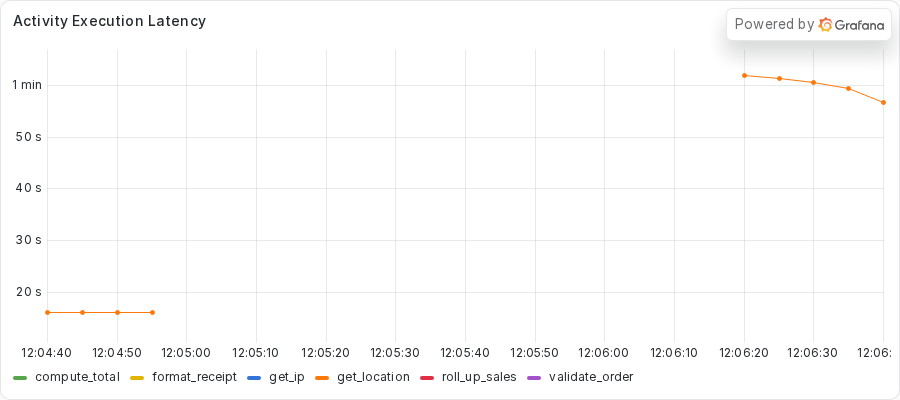
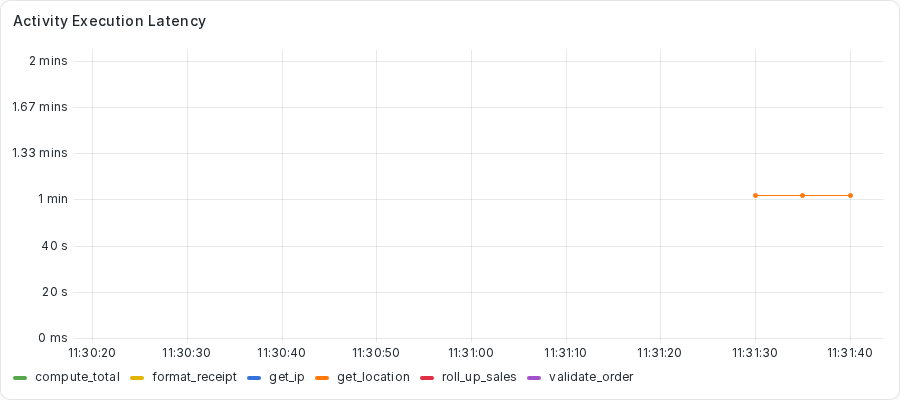
Retake the exercise 02 solution panel captures
The old exercise 02 solution images came from a window that did not
start at the fleet start, and the failures image carried a flat line
left over from the practice run. All four 02-solution-live images are
retaken with a window that starts at the fleet start.

The exercise 02 README (alt text at line 683, sentence at line 686) and
the part 3 draft (alt text at line 721) now disagree with the new
workflow-task-latency image, which reads 4 to 18 ms and has no points
near 7.8 seconds. They stay as they are until the prose steps rewrite
them. The new failures image reads "No data" because a clean run has no
activity_timeout series; no Markdown file embeds it.

Other readings taken in this step, each from one run, with raw captures
kept outside the repository:

- Exercise 03 solution, one Worker, --bad 2: both runs about 84.4 s,
  get_location placed 2 on the one identity.
- Exercise 03 solution, two Workers, --bad 4: run times 84.4 to 87.0 s,
  placement 2 and 2.
- py-spy retakes: the last frame reads worker.py:166 and :168, where
  the README prints 115 and 117.
- Root just healthy: 0 "Task not found when completing" lines. Root
  just block: 3, one at the first thaw and two at the final thaw.
- Root just block receipt WT1: 29,002 and 29,001 ms.
- Workflow Task Execution Latency panel: the 5.14 s peak is the
  rollup line; the receipts' 29 s stall does not appear, because a
  timed-out Workflow Task records no execution latency.
- kernel.yama.ptrace_scope reads 0.

diff --git a/.ai-sessions/session-20261111-1140-goal-step-8-reference-captures.md b/.ai-sessions/session-20261111-1140-goal-step-8-reference-captures.md
@@ -1,0 +1,122 @@
+# Session Summary: Goal Step 8, Capture Exercise 03 And The Root Reference Readings
+
+**Date**: 2026-11-11
+**Duration**: one goal step (implement, finalize); active time not tracked
+**Conversation Turns**: one implement dispatch before this finalize dispatch
+**Estimated Cost**: not tracked
+**Model**: claude-sonnet-5-5 (the implement and finalize dispatches both ran on Sonnet, under a claude-fable-5-2 orchestrator)
+
+## Goal Context
+
+- **Condition**: not visible to the finalize dispatch
+- **Mode**: step (Step 8 of the fleet-localization plan, a task step with `**Tools:** none`)
+- **Outcome**: converged for this step (no validator pass, so no findings)
+- **Subagent dispatches**: implement, finalize
+- **Steps completed**: Step 8 checked off in `todo.md`
+
+## Key Actions
+
+Each figure below is one run, not a general result.
+The raw captures, logs, and per-run readings stay in the scratchpad, outside the repository.
+
+- Exercise 03, solution copy, one Worker, `--bad 2`: both runs took about 84.4 s (84.47 and 84.43 s), both completed on attempt 1.
+  `get_location` placed 2 on the one identity.
+  `top` read 81.8, 63.6, and 41.7 percent CPU at 10, 18, and 28 s.
+- Exercise 03, solution copy, two Workers, `--bad 4`: four run times of 84.41, 84.43, 86.97, and 86.38 s.
+  Placement was 2 and 2 for `get_location` (and for `get_ip`).
+  `top` read 80.0 to 100.0 percent on both Workers.
+- Retook two `py-spy dump` captures, one on the practice copy (the bug) and one on the solution copy standing in for the fixed practice copy.
+  Only the last frame differs from the README: `worker.py:166` and `worker.py:168` against 115 and 117.
+- Root `just healthy` only: 0 "Task not found when completing" lines in the Worker log.
+- Root `just block`: 3 such lines.
+  The rollup failed `ScheduleToClose`, its Activity timing out 20.0 s after it was scheduled.
+  Receipt WT1 read 29,002 ms and 29,001 ms.
+  `top` read 0.0 percent in state `S`.
+- Workflow Task Execution Latency panel for the root `just block` run: the peak (5141.3 ms) is on the SalesRollupWorkflow line.
+  The receipt line has no finite value in the window.
+- `sysctl kernel.yama.ptrace_scope` reads 0.
+- Exercise 02 solution fleet: retook and replaced all four `docs/images/02-solution-live-*.png` with a window that starts at the fleet start.
+  Receipts read WT1 20 ms and 17 ms, and `validate_order` waits of 3227 ms and 3196 ms.
+- Checked off the Step 8 boxes in `todo.md`.
+- This finalize dispatch re-ran `just check` (exit 0) and `uv run pytest -q` at the root (119 passed, exit 0).
+
+## Prompt Inventory
+
+| Prompt/Command | Action Taken | Outcome |
+|---|---|---|
+| Executor (Sonnet), `Mode: implement` | Ran the exercise 03 readings, two py-spy retakes, the root readings, and the exercise 02 fleet; replaced four images | Tree dirty with `todo.md` and four PNG files |
+| Executor (Sonnet), `Mode: finalize` | Gates, session summary, three lessons, commit, push | This commit |
+
+## Deviations from Plan
+
+- Plan said: start the dev server with `just server`.
+- Deviated: started `temporal server start-dev --metrics-port 9465` directly in the background so the recorded PID is the server's own (the same command the recipe runs).
+- Impact: none on the captures.
+
+- Plan said: the plan lists the exercise 03 one-Worker and two-Worker readings and the root and exercise 02 readings only.
+- Deviated: added by the orchestrator, two `py-spy dump` retakes (practice copy with the bug, and the solution copy standing in for the fixed practice copy) to check the `worker.py` frame lines the exercise 03 README prints.
+  Only the last frame differs (115 became 166, 117 became 168).
+- Impact: Step 11 corrects the README from the scratchpad files.
+
+- Plan said: run the exercise 03 one-Worker reading once.
+- Deviated: the first attempt's analysis script failed after the run, so the reading was repeated on a fresh server; the first attempt's files are kept in the scratchpad under their own name.
+- Impact: none on the figures quoted.
+
+- Plan said: retake the four 02-solution-live images and replace them, with a window that starts at the fleet start.
+- Deviated: replaced all four.
+  The failures image now reads "No data", and the latency image now reads 4 to 18 ms with no points near 7.8 seconds, so the alt text and the sentence beside it in the exercise 02 README (and the part 3 draft) no longer match.
+- Impact: Step 11 or 13 must rewrite that caption; recorded in the scratchpad findings.
+
+## Efficiency Insights
+
+**What went well:**
+- The py-spy retake caught a stale frame line in the README that no earlier step had checked.
+- Keeping the aborted analysis run's files under their own name left no ambiguity about which run the figures come from.
+
+**What could improve:**
+- The machine had a load average of 1.9 to 4.2 and an unrelated dev server running during every run, which may explain part of the slower exercise 03 run times; this was not tested.
+- The image replacement landed before the prose that captions it, so the repository holds false captions until Steps 11 and 13.
+
+**Course corrections:**
+- The orchestrator added the two py-spy retakes mid-step; the analysis script was fixed and the one-Worker reading repeated.
+
+## Process Improvements
+
+- When a capture step replaces an image, grep the Markdown files for its filename first and list every caption line in the commit body.
+- Note the machine's load next to each timing figure, as the run times here are slower than the earlier ones.
+
+## Observations
+
+Every reading here is one run.
+Nothing in spec.md, CLAUDE.md, any README, or any draft was changed in this step.
+The writers of Steps 9, 11, 13, and 14 must write from the scratchpad captures and treat these disagreements as open.
+
+- Exercise 03 solution, one Worker, `--bad 2`: both runs took about 84.4 s, against "about 63 seconds" at `exercises/03-cpu-bound/README.md` line 491 and 59 to 60 s at `spec.md` line 324.
+  `top` read 81.8, 63.6, and 41.7 percent, against 93.0 percent at README lines 470 and 489 and 60 to 100 percent at `spec.md` line 324 (41.7 is below that range).
+  `get_location` placement count was 2 on the one identity.
+- Exercise 03 solution, two Workers, `--bad 4`: four run times of about 84.4 to 87.0 s, against 65 to 67 s at `spec.md` line 325.
+  Placement was 2 and 2.
+  The README still describes `--bad 3` at lines 496 to 538, which this run did not retake; Step 11 rewrites it.
+- The py-spy retakes: the README prints `<module> (worker.py:115)` at line 197 and `<module> (worker.py:117)` at line 366; this run reads `worker.py:166` and `worker.py:168`.
+  Every other frame matches.
+  The fixed practice copy's `asyncio.run(main())` line depends on what the learner wrote, so Step 11 should say so or quote the solution copy's 168.
+- Root `just healthy` only: 0 "Task not found when completing" lines.
+  Root `just block`: 3 such lines, one for the rollup's Workflow Task at the first thaw and two for the receipts just before the final thaw (about 0.04 s before the final `get_location` completion).
+  That differs from "together at the thaw" at `spec.md` lines 396 and 606.
+- Root `just block`: receipt WT1 of 29,002 ms and 29,001 ms, against 28.8 s in `CLAUDE.md` and 28,816 and 28,834 ms at `README.md` line 542.
+  The rollup's Activity timed out 20.0 s after it was scheduled, which matches `CLAUDE.md`.
+- Workflow Task Execution Latency panel: the peak (5141.3 ms) is on the SalesRollupWorkflow line, and the receipts' 29-second stall does not appear because their first Workflow Task timed out and recorded no execution latency.
+  `README.md` line 711 ("a stall of about 29 seconds reads as 5 to 6 seconds") and the matching `CLAUDE.md` dashboard fact are not supported by this run; Step 14 corrects both.
+- `sysctl kernel.yama.ptrace_scope` reads 0, matching `README.md` line 723 and `spec.md` line 71.
+- Exercise 02: all four `docs/images/02-solution-live-*.png` were replaced with a window that starts at the fleet start.
+  The new workflow-task-latency image reads 4 to 18 ms (rollup 18, receipts about 9, geo 4), so the alt text at `exercises/02-sleep-between-heartbeats/README.md` line 683, the sentence at line 686, and the alt text at `docs/drafts/part-3-sleep-between-heartbeats.md` line 721 are now false until Steps 11 and 13 rewrite them.
+  The new failures image reads "No data".
+  No committed Markdown file embeds the failures, activity-latency, or slots-used image (only the workflow-task-latency image is embedded), and the old failures image showed a stale flat line left over from the practice run.
+  Committing a "No data" image follows the plan's "replace the four files" instruction; whether to keep or delete that file is a build decision for Step 14.
+  This run's receipts read WT1 20 ms and 17 ms and `validate_order` waits of 3227 ms and 3196 ms, against the README's printed 14 and 16 ms and 2954 and 4013 ms (lines 671 to 678).
+
+## Suggested Skills for Next Session
+
+- `content-design:tutorial-writing`: Step 9 is prose (README.md and the event-loop primer).
+- `voice:teaching`: Mason's register on top of the tutorial canon for that prose.
+- `content-design:style-linting`: the prose goes through Vale before it is committed.

diff --git a/.ai-sessions/lessons.md b/.ai-sessions/lessons.md
@@ -2,6 +2,9 @@
 
 ## Recent
 
+- A Workflow Task that times out records no execution latency, so the Workflow Task Execution Latency panel cannot show a stall that a timeout carries: in one root `just block` run the receipts' 29-second first-task stall left their line empty, and the panel's only high reading (5.14 s) sat on the rollup line (one run, 2026-11-11)
+- Replacing a panel image ahead of the prose that captions it makes the alt text and the sentence beside it false; in the same commit, record the file and line of every caption the new image contradicts (exercise 02 README lines 683 and 686, part 3 draft line 721) so the prose steps find them (2026-11-11)
+- A `py-spy` frame line printed in a README goes stale whenever the file it names changes: the exercise 03 README's `worker.py:115` and `worker.py:117` read 166 and 168 in a retake, while every other frame matched; retake the dump after code edits to that file (one run, 2026-11-11)
 - An `ActivityTaskStarted` history event is written only when the Activity finishes, so a mid-freeze reading triggered on it falls after the thaw (two of four exercise 06 flood B runs); trigger on the starter's own output or on the pending Activity state from `describe` (2026-11-11)
 - A flood B run read a backlog of 39 tasks aged 3.5 s and a frozen Worker's pollers 6 and 8 seconds stale only at the last of four mid-freeze passes (about 19 s in); the passes at about 0 and 2 s read backlog 0 and current pollers, so one early read does not show the signal is absent; take passes across the whole freeze and name the pass in the sentence (one run, 2026-11-11)
 - A Grafana panel that reads "No data" in a clean run (the solution failures panel, because no `activity_timeout` series exists) is not committed as an image; the prose states the empty panel instead (2026-11-11)
@@ -9,9 +12,6 @@
 - When a plan step names one copy of an exercise file and the practice or solution twin holds identical lines, apply a no-behavior change to both and log it as a deviation, so `diff practice solution` keeps showing only lesson lines (Step 6, exercise 03 `worker.py`) (2026-11-11)
 - A docstring that describes an output format is a claim a validator checks against the code line by line: two of Step 5's three validator passes failed on a docstring that said less or more than the code printed; write the docstring from the formatter's branches after the code is final (2026-11-11)
 - A history fixture attributes a WorkflowTaskTimedOut through the scheduled event id it shares with a WorkflowTaskStarted, because the timeout event carries no identity; a timeout with no Started event belongs to no identity (2026-11-11)
-- A fallback branch that no captured fixture reaches (`largest WT1 none`, `on no Worker` in the receipt-gap identity view) needs a history derived from a capture inside the test, with "derived" in the test name, and a temporary mutation of the branch to show the test can fail (2026-11-11)
-- Before an orchestrator gives an executor a formatting rule, check the house convention in the existing files: the Step 4 executor was told never to split the ANTIPATTERN marker, kept one 264-character line behind a file-level `# ruff: noqa: E501`, and had to be sent back, because every other marker in the repository wraps over several comment lines; grep the existing instances first (2026-11-11)
-- When a practice copy's fix changes the kind of a function (`async def` to `def`), every line that changes with it is an edit point and needs its own `# TODO PART X:` comment: exercise 06's `async with httpx.AsyncClient` line and its `await client.get` call had none until the validator compared the copy with exercise 03, whose fix has the same shape; diff the TODO comments against that sibling before validation (2026-11-11)
 
 ## Testing
 
@@ -32,6 +32,7 @@
 
 ## Temporal
 
+- A Workflow Task that times out records no execution latency, so the Workflow Task Execution Latency panel cannot show a stall that a timeout carries: in one root `just block` run the receipts' 29-second first-task stall left their line empty, and the panel's only high reading (5.14 s) sat on the rollup line (one run, 2026-11-11)
 - A flood B run read a backlog of 39 tasks aged 3.5 s and a frozen Worker's pollers 6 and 8 seconds stale only at the last of four mid-freeze passes (about 19 s in); the passes at about 0 and 2 s read backlog 0 and current pollers, so one early read does not show the signal is absent; take passes across the whole freeze and name the pass in the sentence (one run, 2026-11-11)
 - An `ActivityTaskStarted` history event is written only when the Activity finishes, so a mid-freeze reading triggered on it falls after the thaw (two of four exercise 06 flood B runs); trigger on the starter's own output or on the pending Activity state from `describe` (2026-11-11)
 - A history fixture attributes a WorkflowTaskTimedOut through the scheduled event id it shares with a WorkflowTaskStarted, because the timeout event carries no identity; a timeout with no Started event belongs to no identity (2026-11-11)
@@ -76,6 +77,8 @@
 
 ## Documentation
 
+- Replacing a panel image ahead of the prose that captions it makes the alt text and the sentence beside it false; in the same commit, record the file and line of every caption the new image contradicts (exercise 02 README lines 683 and 686, part 3 draft line 721) so the prose steps find them (2026-11-11)
+- A `py-spy` frame line printed in a README goes stale whenever the file it names changes: the exercise 03 README's `worker.py:115` and `worker.py:117` read 166 and 168 in a retake, while every other frame matched; retake the dump after code edits to that file (one run, 2026-11-11)
 - A Grafana panel that reads "No data" in a clean run (the solution failures panel, because no `activity_timeout` series exists) is not committed as an image; the prose states the empty panel instead (2026-11-11)
 - A docstring that describes an output format is a claim a validator checks against the code line by line: two of Step 5's three validator passes failed on a docstring that said less or more than the code printed; write the docstring from the formatter's branches after the code is final (2026-11-11)
 - When a practice copy's fix changes the kind of a function (`async def` to `def`), every line that changes with it is an edit point and needs its own `# TODO PART X:` comment: exercise 06's `async with httpx.AsyncClient` line and its `await client.get` call had none until the validator compared the copy with exercise 03, whose fix has the same shape; diff the TODO comments against that sibling before validation (2026-11-11)

diff --git a/todo.md b/todo.md
@@ -91,13 +91,13 @@ Mirrors `plan.md`. Check off each numbered sub-step as `/bpe:execute-plan` or `/
 
 ### Step 8: Capture Exercise 03 And The Root Reference Readings (task)
 
-- [ ] 1. Scope defined (exercise 03, root logs, exercise 02 panels, ptrace reading)
-- [ ] 2. Tooling: temporal CLI, just, py-spy, top, sysctl (read only), shot.py
-- [ ] 3. Do: exercise 03 `--bad 2` on one Worker and `--bad 4` on two, with placement
-- [ ] 3. Do: root healthy-only Worker log and root `just block` log and panel reading
-- [ ] 3. Do: exercise 02 solution panels and the `sysctl` reading
-- [ ] 4. Verify: every reading indexed, placement counts add up
-- [ ] 5. Document: scratchpad INDEX.md and FINDINGS.md; commit replaced PNG files only
+- [x] 1. Scope defined (exercise 03, root logs, exercise 02 panels, ptrace reading)
+- [x] 2. Tooling: temporal CLI, just, py-spy, top, sysctl (read only), shot.py
+- [x] 3. Do: exercise 03 `--bad 2` on one Worker and `--bad 4` on two, with placement
+- [x] 3. Do: root healthy-only Worker log and root `just block` log and panel reading
+- [x] 3. Do: exercise 02 solution panels and the `sysctl` reading
+- [x] 4. Verify: every reading indexed, placement counts add up
+- [x] 5. Document: scratchpad INDEX.md and FINDINGS.md; commit replaced PNG files only
 
 ## Section 6: Shared Recognition Block
 
